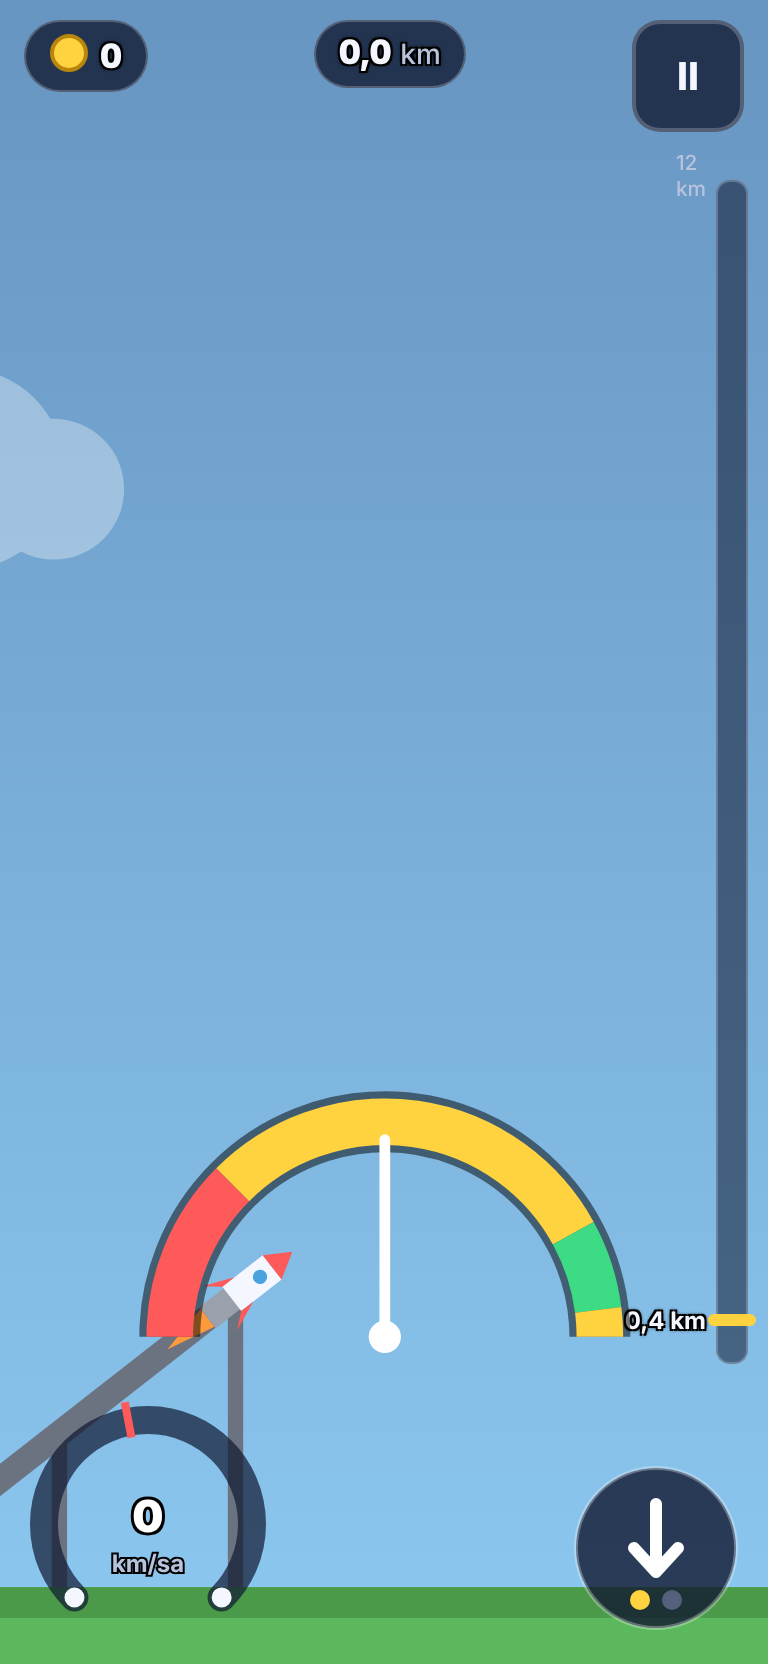
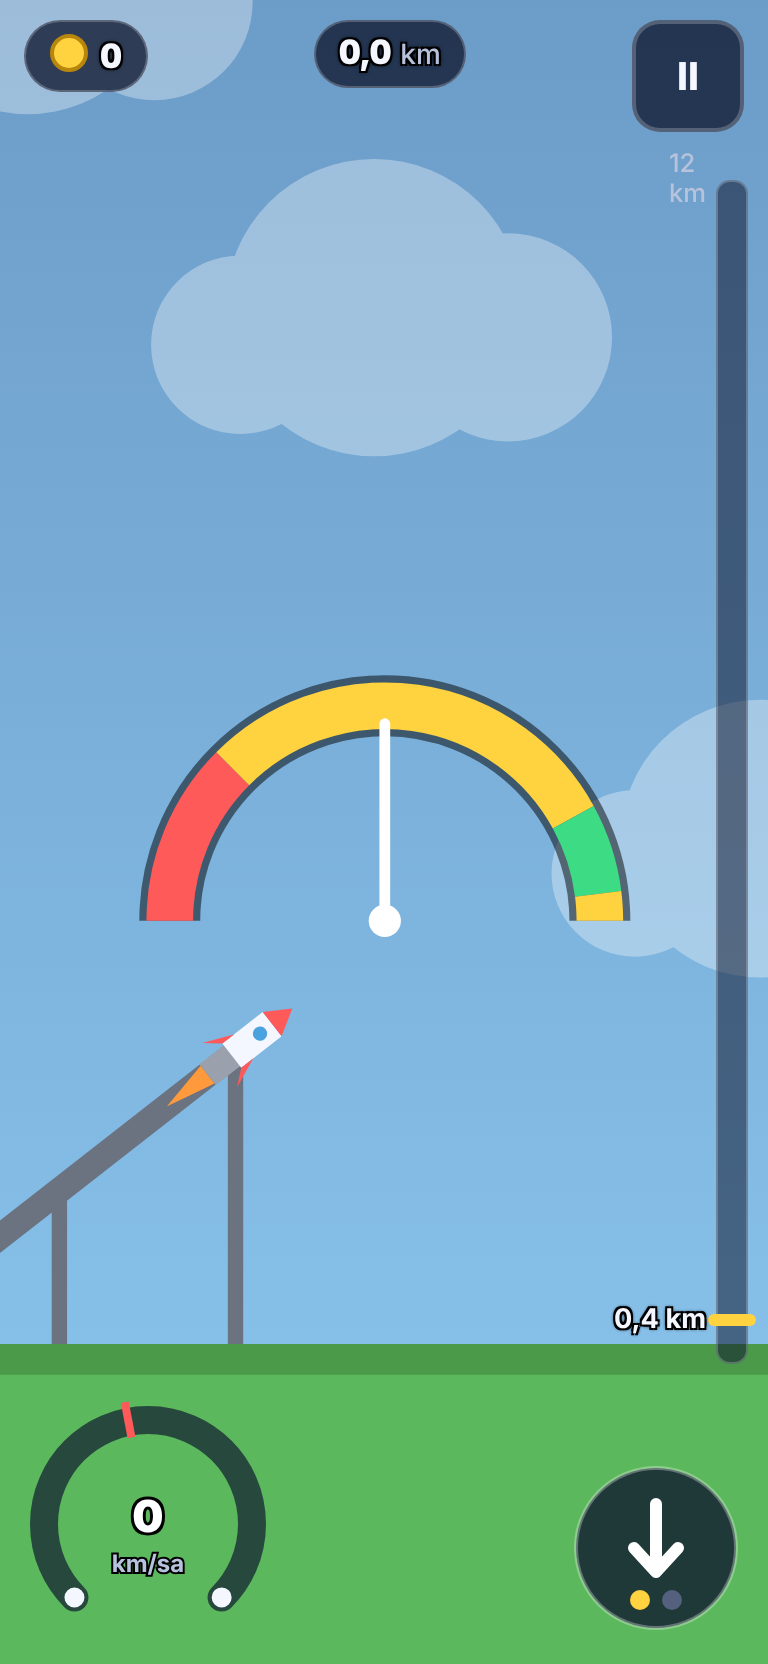
WIP: ara yedek
Claude-Session: https://claude.ai/code/session_01FT8SNz1Hsnax27do6pkEGm

diff --git a/oyun/b0/testci/RAPOR.md b/oyun/b0/testci/RAPOR.md
@@ -1,22 +1,22 @@
 # B0 kabul raporu (otomatik: testci/kabul.py)
 
-Sayfa: `index.html` · Koşu: 2026-10-08 19:36 · Süre: 86 s · Konsol hatası: 2
+Sayfa: `index.html` · Koşu: 2026-10-08 20:00 · Süre: 74 s · Konsol hatası: 2
 
 | K | Ölçüt | Durum | Ayrıntı |
 |---|---|---|---|
-| K1 | Vay anı <=5 s (>=%90) | **GECTI** | vay_t<=5s orani: iyi %100, hic %100 (hedef >=%90) |
-| K2 | Tur 1 süresi 16-30 s, 65 s'ye çarpma yok | **GECTI** | ort tur suresi 17.0s (16-30), 65s'ye carpan 0 |
-| K3 | Beceri farkı (1,30 / 1,60) | **GECTI** | tur1 iyi/hic mesafe orani 1.42 (>=1,30); tur5 sv={'rampa': 4, 'yakit_ac': 1, 'dalis': 2, 'yakit_s': 2}: 2.33 (>=1,60) |
+| K1 | Vay anı <=5 s (>=%90) | **GECTI** | vay_t<=5s orani: iyi %90, hic %100 (hedef >=%90) |
+| K2 | Tur 1 süresi 16-30 s, 65 s'ye çarpma yok | **GECTI** | ort tur suresi 16.2s (16-30), 65s'ye carpan 0 |
+| K3 | Beceri farkı (1,30 / 1,60) | **GECTI** | tur1 iyi/hic mesafe orani 1.63 (>=1,30); tur5 sv={'rampa': 4, 'yakit_ac': 1, 'dalis': 2, 'yakit_s': 2}: 2.63 (>=1,60) |
 | K4 | Satın alma ritmi | **BILGI** | iyi: en uzun alisverissiz 1 (<=3); orta: en uzun alisverissiz 1 (<=3); hic: en uzun alisverissiz 2 (<=3) |
-| K5 | Ses duvarı tur | **BILGI** | ses duvari ilk kirilis medyan tur: {'iyi': 4, 'orta': 5, 'hic': 6} (iyi 2-3, hic <=8) |
-| K6 | Kampanya tur süresi | **BILGI** | iyi t5-15 sure medyan 51.7s, tavan %42; orta t5-15 sure medyan 30.2s, tavan %6; hic t5-15 sure medyan 21.2s, tavan %0 (hedef 20-40s, tavan <=%5) |
-| K7 | Yeniden başlatma <=0,5 / <=3 s | **GECTI** | TEKRAR UC -> RAMPA 0.28s (<=0,5), BITIS->KARA_KUTU 1.02s, bitis->rampa toplam ~1.69s (<=3), igne ilerliyor=True. Animasyon sirasinda TEKRAR UC ayri elle bakilmali |
+| K5 | Ses duvarı tur | **BILGI** | ses duvari ilk kirilis medyan tur: {'iyi': 4, 'orta': 4, 'hic': 6} (iyi 2-3, hic <=8) |
+| K6 | Kampanya tur süresi | **BILGI** | iyi t5-15 sure medyan 65.0s, tavan %61; orta t5-15 sure medyan 25.0s, tavan %15; hic t5-15 sure medyan 20.3s, tavan %0 (hedef 20-40s, tavan <=%5) |
+| K7 | Yeniden başlatma <=0,5 / <=3 s | **GECTI** | TEKRAR UC -> RAMPA 0.44s (<=0,5), BITIS->KARA_KUTU 1.02s, bitis->rampa toplam ~1.86s (<=3), igne ilerliyor=True. Animasyon sirasinda TEKRAR UC ayri elle bakilmali |
 | K8 | Sim eşliği (>=200 tohum) | **GECTI** | n=40; ayar_uret --denetle temiz; tum olculer uyumlu |
 | K9 | Belirlenimlilik | **GECTI** | ayni tohum ayni sonuc=True; hiz=4 vs hiz=8 olay gunlugu ayni=True (hiz=1 yerine 4 kullanildi, sure icin) |
 | K10 | Mantık denetimi (debug) | **GECTI** | debug=1 toplu=20: konsol uyari/hata 0; __oyun.uyarilar=0. NOT: oyun enerji denetimini konsola uyari olarak yazmali (uyar/enerji/ihlal ya da console.warn); yazmiyorsa bu madde guvenilir degil |
-| K11 | Kare hızı (telefon) | **ELLE** | telefon olcumu sart; headless swiftshader bilgisi: fps ort 58 min 20 |
+| K11 | Kare hızı (telefon) | **ELLE** | telefon olcumu sart; headless swiftshader bilgisi: fps ort 60 min 30 |
 | K12 | Kararlılık, 0 konsol hatası | **GECTI** | kampanya(iyi,50) cokmedi; konsol hata 0; heap artisi 0.1 MB (<20) |
-| K13 | Kayıt | **GECTI** | yenileyince jeton/sv ayni=True; gizlenince bekleyen={'j': 351, 'ses': True}, gorunur olunca=None; bekleyen 40 acilista jeton 50 (beklenen 50), tekrar acinca 50; bozuk kayit tasindi=True, varsayilan jeton=0, yeni konsol hata=0. 'Elle bitirilen turda taban/prim yok' ve 'hicbir senaryoda tur iki kez sayilmaz' tam kontrol icin elle de bak |
+| K13 | Kayıt | **GECTI** | yenileyince jeton/sv ayni=True; gizlenince bekleyen={'j': 336, 'ses': True}, gorunur olunca=None; bekleyen 40 acilista jeton 50 (beklenen 50), tekrar acinca 50; bozuk kayit tasindi=True, varsayilan jeton=0, yeni konsol hata=0. 'Elle bitirilen turda taban/prim yok' ve 'hicbir senaryoda tur iki kez sayilmaz' tam kontrol icin elle de bak |
 | K14 | Duraklat | **GECTI** | gizlenince fizik durdu=True (dt=0.000); 3-2-1 sirasinda dokunus dalis yapmadi=True (gosterge 1.00->1.00); duraklat dugmesi dalis yapmadi=True; toplu'da blur duraklatmadi=True |
 | K15 | Erişilebilirlik | **GECTI** | yazi x1.0: kucuk dugme [], tasan [], yatay kayma False; yazi x1.2: kucuk dugme [], tasan [], yatay kayma False; yazi x1.4: kucuk dugme [], tasan [], yatay kayma False; hareket azaltma: sarsinti degeri=0 (durum() alani yoksa elle). Flas <=3/s ve parlama alani/suresi icin kontak sayfasina ELLE bak (kontak.py) |
 | K16 | Kullanıcı kararı (10 dk) | **ELLE** | telefonda 10 dk, 3 soru + kayit 'tur' farki (kullanici). Uyari metni: 'Bu gri kutu yalniz his testidir...' |
